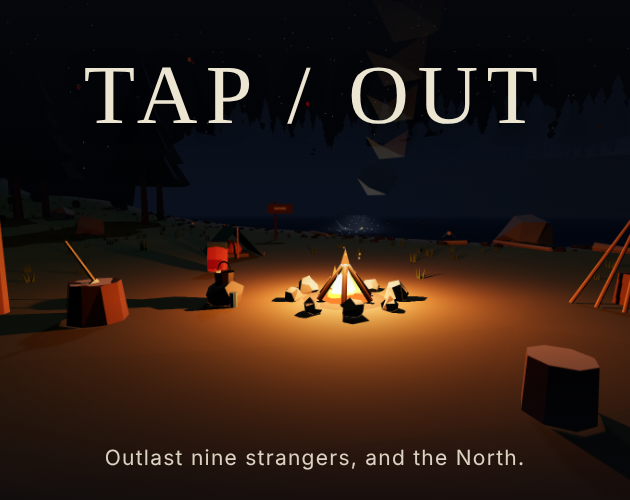
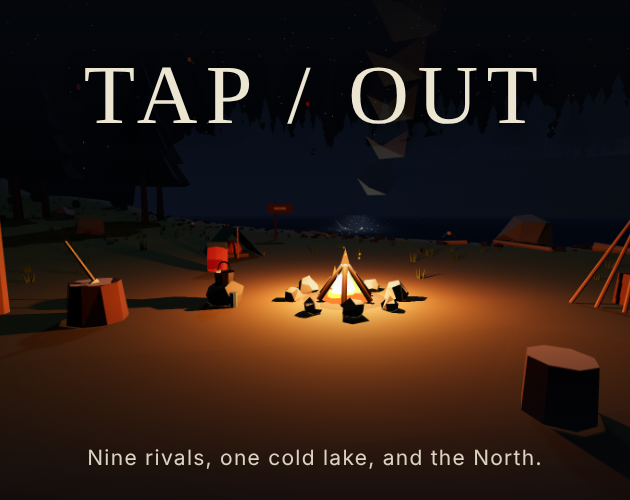
0.0.61: M23 legal pass
Ship the MIT licences of the six bundled libraries (npm run notices, Credits > Open-source
licences, tested). Name check report in docs/reports/M23_LEGAL_CHECK.md; the cover tagline
drops 'Outlast'. v12's cold weather reads 'Raw chill' above 5 C instead of 'Cold snap'.

Claude-Session: https://claude.ai/code/session_01DjBEVtiP777CTvhe7eqGsE

Changed region(s): [[0.1206, 0.9, 0.8444, 0.96]]

diff --git a/apps/game/src/ui/offers.test.ts b/apps/game/src/ui/offers.test.ts
@@ -1,7 +1,7 @@
 import { describe, expect, it } from 'vitest';
 import { LOCATIONS, type LocationId } from '@tapout/content';
 import { Session, type View } from '../session.ts';
-import { offersFor } from './offers.ts';
+import { hudText, offersFor } from './offers.ts';
 
 // Plays whole runs through the same offers the screen shows (plan §12, M10): every action v12
 // shows is on a station you can click, and every offer resolves without an error.
@@ -90,5 +90,19 @@ describe('fishing spots', () => {
     // Other spots still offer a line of their own.
     const point = LOCATIONS.shore.stations.find((s) => s.id === 'point')!;
     expect(offersFor(point, view).find((o) => o.key === 'a-lines')!.handler).toBe("placeLineAt('point')");
+  });
+});
+
+describe('the weather pill', () => {
+  const hud = (wx: string, temp: string) =>
+    new Map([
+      ['pillWx', { id: 'pillWx', text: wx, html: '' }],
+      ['pillTemp', { id: 'pillTemp', text: temp, html: '' }],
+    ]) as unknown as Parameters<typeof hudText>[0];
+  it('calls a mild cold day a raw chill, and a cold one a cold snap', () => {
+    expect(hudText(hud('❄ Cold snap', '🌡 20°C'), 'pillWx')).toBe('❄ Raw chill');
+    expect(hudText(hud('❄ Cold snap', '🌡 5°C'), 'pillWx')).toBe('❄ Cold snap');
+    expect(hudText(hud('❄ Cold snap', '🌡 -12°C'), 'pillWx')).toBe('❄ Cold snap');
+    expect(hudText(hud('☀ Clear', '🌡 20°C'), 'pillWx')).toBe('☀ Clear');
   });
 });

diff --git a/apps/game/src/ui/SettingsPanel.tsx b/apps/game/src/ui/SettingsPanel.tsx
@@ -155,6 +155,14 @@ function PlaytestNotes() {
 
 export function CreditsPanel({ onClose }: { onClose: () => void }) {
   const C = CREDITS_TEXT;
+  const [licences, setLicences] = useState<string | null>(null);
+  const showLicences = () => {
+    // Bundled, not fetched: the desktop build cannot fetch its own files.
+    import('../legal/licences.txt?raw').then(
+      (m: { default: string }) => setLicences(m.default),
+      () => setLicences(C.licencesMissing),
+    );
+  };
   return (
     <div className="overlay" onClick={onClose}>
       <div className="sound-panel settings-panel" onClick={(e) => e.stopPropagation()}>
@@ -173,6 +181,13 @@ export function CreditsPanel({ onClose }: { onClose: () => void }) {
           ))}
         </div>
         <p className="credits-line">{C.people}</p>
+        {licences === null ? (
+          <button className="hud-btn" onClick={showLicences}>
+            {C.licences}
+          </button>
+        ) : (
+          <textarea className="notes-text licences-text" readOnly value={licences} />
+        )}
         <button className="big-btn primary" onClick={onClose}>
           {C.close}
         </button>

diff --git a/apps/game/src/ui/offers.ts b/apps/game/src/ui/offers.ts
@@ -2,12 +2,16 @@
 // Presentation only: availability, labels and costs all come from the core.
 
 import { rationsLeft, type HudElement, type PanelEntry } from '@tapout/core';
-import { LOCATIONS, type SpecialAction, type Station } from '@tapout/content';
+import { LOCATIONS, WEATHER_TEXT, type SpecialAction, type Station } from '@tapout/content';
 import type { View } from '../session.ts';
 
 export function hudText(hud: ReadonlyMap<string, HudElement>, id: string): string {
   const el = hud.get(id);
-  return el ? el.html || el.text : '';
+  const text = el ? el.html || el.text : '';
+  if (id !== 'pillWx' || !text.includes(WEATHER_TEXT.coldSnap)) return text;
+  // A 'cold' day that is not cold on the thermometer: name the chill, not a snap.
+  const temp = Number(/(-?\d+)\s*°C/.exec(hudText(hud, 'pillTemp'))?.[1]);
+  return temp > WEATHER_TEXT.coldSnapAtOrBelow ? text.replace(WEATHER_TEXT.coldSnap, WEATHER_TEXT.rawChill) : text;
 }
 
 // ---- what a station offers right now

diff --git a/apps/game/src/licences.test.ts b/apps/game/src/licences.test.ts
@@ -1,0 +1,14 @@
+import { readFileSync } from 'node:fs';
+import { describe, expect, it } from 'vitest';
+
+describe('open-source licences', () => {
+  it('lists every library the game ships (run npm run notices after changing dependencies)', () => {
+    const text = readFileSync(new URL('./legal/licences.txt', import.meta.url), 'utf8');
+    const pkg = JSON.parse(readFileSync(new URL('../package.json', import.meta.url), 'utf8')) as { dependencies: Record<string, string> };
+    for (const name of Object.keys(pkg.dependencies).filter((n) => !n.startsWith('@tapout/'))) {
+      const installed = JSON.parse(readFileSync(new URL(`../../../node_modules/${name}/package.json`, import.meta.url), 'utf8')) as { version: string };
+      expect(text).toContain(`\n${name} ${installed.version} (`);
+    }
+    expect(text).toContain('Permission is hereby granted');
+  });
+});

diff --git a/apps/game/src/styles.css b/apps/game/src/styles.css
@@ -344,4 +344,5 @@ h3 { margin: 10px 0 10px; font-size: 15px; letter-spacing: 0.22em; text-transfor
 .notes-row { grid-template-columns: 1fr auto auto; gap: 12px; }
 .notes-row button { flex: none; width: auto; white-space: nowrap; padding: 8px 16px; }
 .notes-text { width: 100%; height: 160px; font: 15px/1.4 monospace; background: #050805; color: var(--bone); border: 1px solid #3a4a3c; border-radius: 8px; padding: 8px; }
+.licences-text { height: 300px; }
 @keyframes thought-in { from { opacity: 0; } to { opacity: 1; } }

diff --git a/packages/content/src/weather.ts b/packages/content/src/weather.ts
@@ -1,0 +1,10 @@
+// How the top bar names v12's weather. v12's 'cold' weather drains warmth like a cold snap but
+// does not lower the thermometer, so on a mild day "Cold snap" next to 20 °C read wrong. Above
+// this temperature it is named for the chill in the air instead. Presentation only.
+
+export const WEATHER_TEXT = {
+  coldSnap: 'Cold snap',
+  /** At or below this many °C it is a cold snap. */
+  coldSnapAtOrBelow: 5,
+  rawChill: 'Raw chill',
+} as const;

diff --git a/packages/content/src/sound.ts b/packages/content/src/sound.ts
@@ -55,6 +55,8 @@ export const CREDITS_TEXT = {
   ],
   people: 'Design and direction: Sir. Built with Claude.',
   close: 'Back',
+  licences: 'Open-source licences',
+  licencesMissing: 'The licence list could not be opened.',
 } as const;
 
 /**

diff --git a/packages/content/src/build.ts b/packages/content/src/build.ts
@@ -1,3 +1,3 @@
 // The build's version, shown on the title screen and written into every save. Kept equal to the
 // root package.json version by a test.
-export const GAME_VERSION = '0.0.60';
+export const GAME_VERSION = '0.0.61';

diff --git a/packages/content/src/index.ts b/packages/content/src/index.ts
@@ -8,3 +8,4 @@ export * from './home.ts';
 export * from './thoughts.ts';
 export * from './confessions.ts';
 export * from './playtest.ts';
+export * from './weather.ts';

diff --git a/docs/DECISIONS.md b/docs/DECISIONS.md
@@ -76,5 +76,6 @@ content edit, not a code change.
 | D-068 | 2026-10-24 | **Sir's call (2026-10-24).** Inner-voice pacing in game days: a thought is due every 4-5 days, every 2-3 while Dan is low (morale 35 or under, resolve wavering, or a body bar low), and then waits for a quiet moment or for him to look at something; moments speak in between but not within 18 game hours of the last line. 16 lines for low days. Everything he says to the camera is now spoken in the same voice, out loud (not the inside-the-head colour), built from the 75 pieces v12 makes confessionals from, so the only voice out there is his. Replaces D-067's ten-minute pacing. | Sir / Claude |
 | D-069 | 2026-10-24 | **Vetoable.** First store page draft (docs/store/STORE_PAGE.md): short and long description, features, AI disclosure (code and text with Claude, voice with Kokoro, nothing generated while playing), tags, Windows requirements, and six 1920x1080 screenshots without the HUD. Recommended order: itch.io first (free), Steam later. | Claude |
 | D-070 | 2026-10-24 | **Vetoable.** M22 balance pass: no rule changes. The harness's test kit named four unknown items (no sleeping bag or snare wire); balance runs now pack the usual ten. A careful-player bot lasts a median of 17 days and wins 2.5% (v12's own bots: median day 19), so the game is hard the way v12 is. Slow-PC check: under 300 draw calls and about 165k triangles in every area, Lighter graphics about 40% cheaper; nothing to change. Report: docs/reports/M22_BALANCE_AND_SLOW_PC.md. | Claude |
-| D-071 | 2026-10-24 | **Vetoable.** The game's icon: a lone pine on the lake shore at dusk, a small fire at its foot, in the game's own colours, drawn by hand in SVG (`scripts/icon/icon.svg`, `npm run icon`). It is on the .exe, the window, the taskbar and the browser tab. The itch.io cover (630x500, `npm run cover`) is the camp fire at night under the title, with 'Outlast nine strangers, and the North.' | Claude |
+| D-071 | 2026-10-24 | **Vetoable.** The game's icon: a lone pine on the lake shore at dusk, a small fire at its foot, in the game's own colours, drawn by hand in SVG (`scripts/icon/icon.svg`, `npm run icon`). It is on the .exe, the window, the taskbar and the browser tab. The itch.io cover (630x500, `npm run cover`) is the camp fire at night under the title, with 'Nine rivals, one cold lake, and the North.' | Claude |
 | D-072 | 2026-10-24 | **Vetoable.** Playtest notes: F8 anywhere opens a one-line note box; Enter saves the note with the build, day, hour, place, weather, temperature, body bars, shelter stage and rivals left (notes.json in the save folder, last 300 kept, not deleted with a run). Settings > Playtest notes copies them all as plain text for pasting into a chat, or clears them. No effect on the run. | Claude |
+| D-073 | 2026-10-24 | **Vetoable.** Legal pass (docs/reports/M23_LEGAL_CHECK.md): the MIT licences of the six bundled libraries now ship in the game (Credits > Open-source licences, `npm run notices`, tested). The cover tagline no longer says 'Outlast' (a Netflix show and a horror game). v12's 'cold' weather is called 'Raw chill' in the top bar when the thermometer reads above 5 °C, and 'Cold snap' at 5 °C or below; its warmth drain is unchanged. Presentation only. | Claude |

diff --git a/docs/reports/M23_LEGAL_CHECK.md b/docs/reports/M23_LEGAL_CHECK.md
@@ -1,0 +1,41 @@
+# M23: legal checks (2026-10-24)
+
+A practical check before a public upload, not legal advice.
+
+## Open-source licences: fixed
+
+The game bundles six libraries: three, react, react-dom, scheduler, phaser and eventemitter3,
+all MIT. MIT asks for its notice to ship with every copy, and until now it did not.
+`npm run notices` writes their licence texts to `apps/game/src/legal/licences.txt`, Credits >
+Open-source licences shows them in the game, and a test fails if a shipped library is missing or
+its version changes without a rerun. The Windows build also carries Electron's own
+`LICENSE.electron.txt` and `LICENSES.chromium.html`, which electron-builder adds.
+
+The voice was recorded with Kokoro-82M (Apache-2.0). Only its recordings ship, not the model,
+and the credits name it. Every model, texture, sound and the icon is made by this project, so
+there are no third-party art licences (docs/CREDITS.md).
+
+## Names
+
+- **TAP / OUT.** "TapouT" is a long-standing MMA clothing brand, and there is a 2002 Xbox game
+  called *UFC: Tapout* plus a small itch.io game called *tapout*. Ours is written with a slash
+  and is a survival game, not a fighting game or clothing. The risk looks low but not zero. If
+  you ever pay for Steam, a quick trademark search in the "video games" class is worth doing
+  first; renaming before launch is cheap, after launch it is not.
+- **HOLDOUT** (the show inside the game). Searching turned up a novel called *The Holdout*,
+  but no TV show with that name. Fine.
+- **The tagline.** The cover said "Outlast nine strangers". *Outlast* is both a Netflix survival
+  show and a well-known horror game, so the cover now says "Nine rivals, one cold lake, and
+  the North."
+- **Rivals.** Their first names sound like real survival-show contestants (your call, 2026-10-08),
+  but they have invented surnames, no real biographies, and nothing is said about the real
+  people. Keep it that way.
+
+## Store disclosures
+
+The store page already discloses AI use (code and words written with Claude, voice made with
+Kokoro, nothing generated while you play). Steam requires this, and itch.io asks for it.
+
+## Still yours to decide
+
+Whether to do a paid trademark check, and the final name, before any paid store.

diff --git a/docs/STATUS.md b/docs/STATUS.md
@@ -188,6 +188,8 @@ Balance pass and slow-PC check (D-070, docs/reports/M22_BALANCE_AND_SLOW_PC.md):
 
 **Build 0.0.60** adds playtest notes (D-072): F8 to jot something down mid-run, Settings to copy them all.
 
+**Build 0.0.61** is the M23 legal pass (D-073): open-source licences in Credits, a name check, a safer cover tagline, and 'Raw chill' instead of 'Cold snap' on mild days.
+
 **Next:** more M22 hardening and Shore/Woods detail.
 
 ## First person — build 0.0.3
